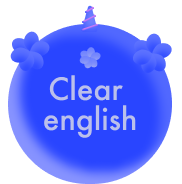
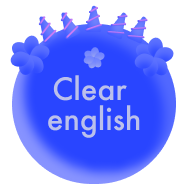
первый экран пилится

diff --git a/index.html b/index.html
@@ -19,8 +19,8 @@
 
 <div class="menubarposition">
   <div class="menubar" >
-    <div><a href="index.html"> <img class="logo" alt="" src="img/148.png"> </a></div>
-    <div class="dropdown"> <a class=""><p class="pmenubar">Past</p></a>
+    <div><a href="index.html"> <img class="logo" alt="" src="img/152.png"> </a></div>
+    <div class="dropdown"> <a href="" class=""><p class="pmenubar">Past</p></a>
       <div class="dropdown-content">
         <a href="#">· Simple </a>
         <a href="#">· Continuous </a>

diff --git a/stylesheets/content.css b/stylesheets/content.css
@@ -105,6 +105,9 @@ td{padding: 10px 0 10px 5%;}
     font-size: 40px;
     line-height: 60px;
 }
+.pmenubar:hover{
+    color: #2945FF;
+}
 
 .pmen{
     font-style: normal;
